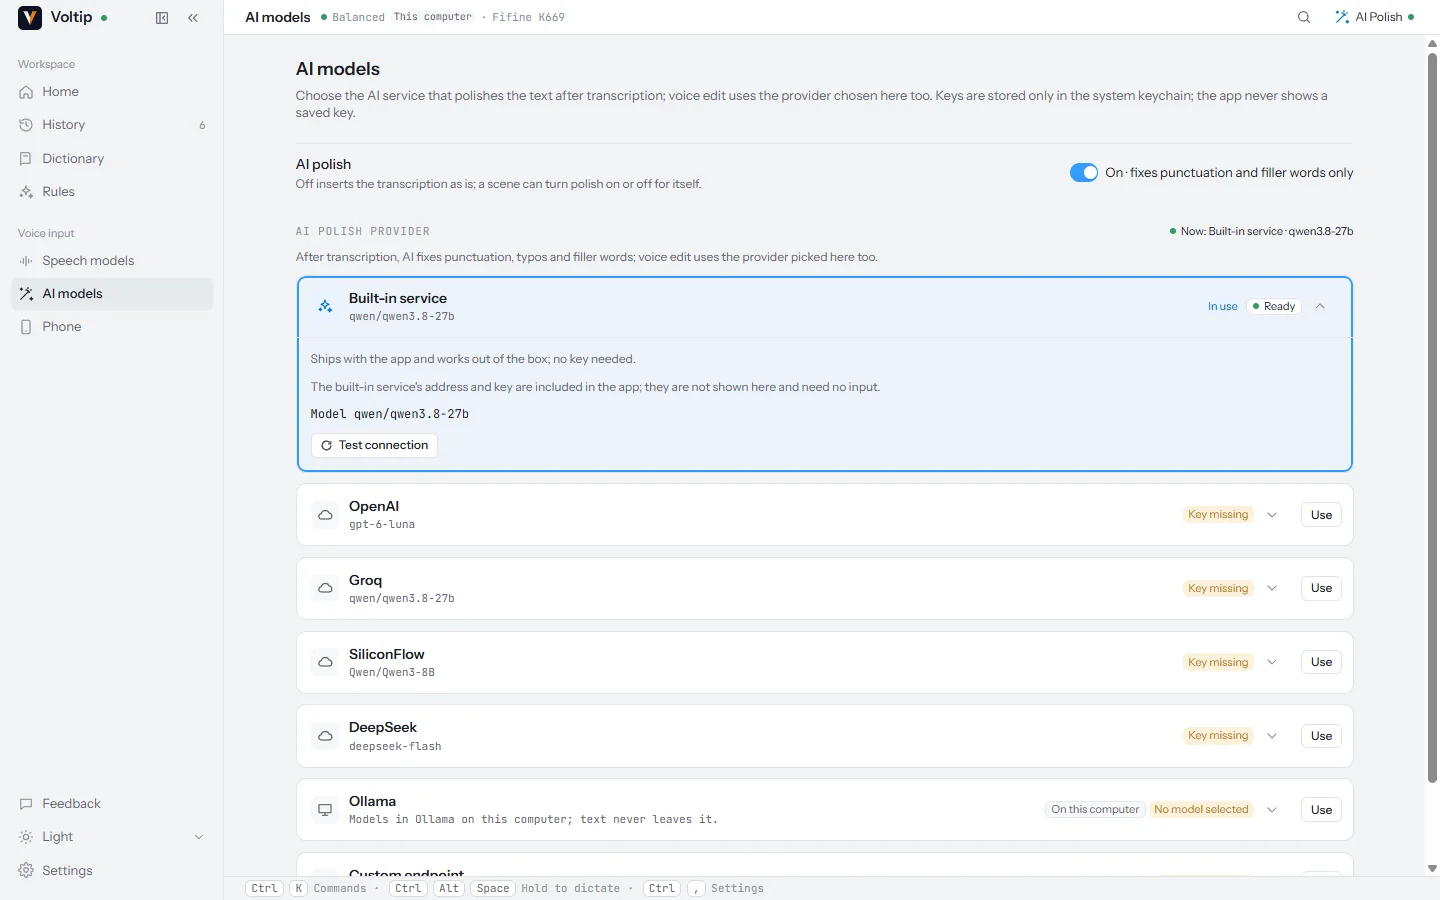
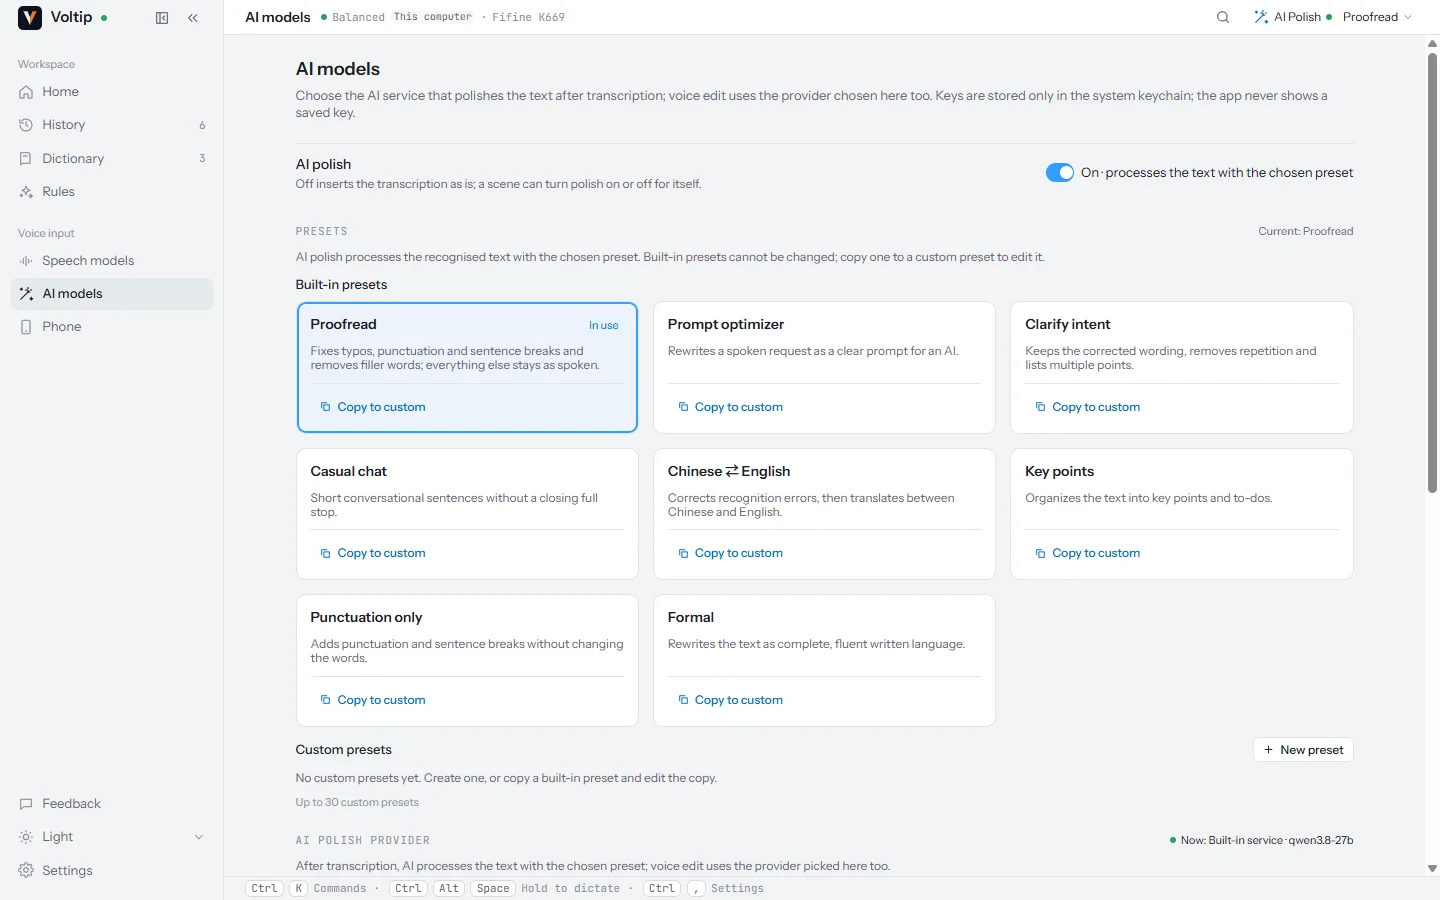
docs(site): retake the screenshots that show the preset menus
The title bar and the home page gained the AI preset menu, the AI models
page the presets, and the overlay names the preset while AI polish runs, so
every page capture and the processing pill are taken again from the mock
backend (docs/site/README.md: 1440 × 900 at DPR 1, WebP 85; the overlay at
DPR 2 through crop-overlay.py). The listening and inserted pills come out
pixel-identical and stay as they were.

- The pill sheet's processing sample names the default preset (校对 /
  Proofread) instead of 「AI 润色」, as the overlay does since §21; the
  sheet test checks it.
- The AI models figure moves into the Presets section with an alt text for
  what it now shows; the processing pill's alt text names the preset.

diff --git a/apps/desktop/src/pages/OverlaySheet.tsx b/apps/desktop/src/pages/OverlaySheet.tsx
@@ -76,6 +76,8 @@ export default function OverlaySheet({ state }: OverlaySheetProps) {
   const levels = fakeLevels(tick);
 
   const fallbackText = t("overlay.fallbackText");
+  // While AI polish runs the pill names the preset in use (docs/dictation.md §21), the default one here.
+  const refineTag = t("presets.proofread.name");
   const sampleLabels: Partial<Record<PillState, string>> = {
     processing: t("overlay.label.processing"),
     inserted: t("overlay.label.inserted"),
@@ -96,7 +98,7 @@ export default function OverlaySheet({ state }: OverlaySheetProps) {
           readout={READOUTS[single]}
           label={sampleLabels[single]}
           via={single === "inserted" ? "VS Code" : undefined}
-          mode={single === "processing" ? t("overlay.live.refineTag") : undefined}
+          mode={single === "processing" ? refineTag : undefined}
           onCopy={copyFallback}
         />
       </div>
@@ -126,7 +128,7 @@ export default function OverlaySheet({ state }: OverlaySheetProps) {
                 readout={READOUTS[s]}
                 label={sampleLabels[s]}
                 via={s === "inserted" ? "VS Code" : undefined}
-                mode={s === "processing" ? t("overlay.live.refineTag") : undefined}
+                mode={s === "processing" ? refineTag : undefined}
                 onCopy={copyFallback}
                 onStop={() => {
                   void backend.invoke("dictation_stop");

diff --git a/apps/desktop/src/pages/Overlay.test.tsx b/apps/desktop/src/pages/Overlay.test.tsx
@@ -58,6 +58,10 @@ describe("Overlay page", () => {
     expect(screen.getByText("预览").closest('[role="status"]')).toHaveClass("w-[420px]");
     // Bridge & MCP is being removed: nothing on the sheet names it.
     expect(page.textContent).not.toMatch(/Bridge|MCP/);
+    // The processing pill names the preset, as the overlay does while AI polish runs (§21).
+    const processing = page.querySelector<HTMLElement>('[data-state="processing"].rounded-pill');
+    expect(processing?.textContent).toContain("校对");
+    expect(processing?.textContent).not.toContain("AI 润色");
   });
 
   it("regression: the single-pill overlay window render is untouched by the sheet layout", async () => {

diff --git a/docs/site/recognition/polish.md b/docs/site/recognition/polish.md
@@ -14,10 +14,6 @@ AI polish uses the service chosen on the **AI models** page: the built-in servic
 
 If the service does not answer, the recognised text is inserted without polish, and the dictation is not lost.
 
-<ScreenFigure src="/screens/ai-en-light.webp" width="1440" height="900"
-  alt="The AI models page with AI polish on and the built-in service in use, followed by the other services."
-  caption="The AI models page." />
-
 ## Presets
 
 A preset tells AI polish what to do with the recognised text. Choose the one in use from the **AI preset** menu on the home page or in the title bar, from **AI Polish** in the tray menu, or under **Presets** on the **AI models** page. While AI polish runs, the overlay shows the name of the preset, and each history entry records it.
@@ -32,6 +28,10 @@ A preset tells AI polish what to do with the recognised text. Choose the one in 
 | **Key points** | Key points and to-dos as two lists, without adding facts |
 | **Punctuation only** | Adds punctuation and sentence breaks and changes no words |
 | **Formal** | Rewrites spoken phrasing into complete, formal written language |
+
+<ScreenFigure src="/screens/ai-en-light.webp" width="1440" height="900"
+  alt="The AI models page: AI polish is on, and below it the eight built-in presets with Proofread in use, then the custom presets."
+  caption="The presets on the AI models page." />
 
 ### Your own presets
 

diff --git a/docs/site/zh/recognition/polish.md b/docs/site/zh/recognition/polish.md
@@ -14,10 +14,6 @@ AI 润色使用「AI 模型」页中选择的服务：内置服务、OpenAI、Gr
 
 如果服务没有响应，Voltip 会插入未经润色的识别结果，这次听写不会丢失。
 
-<ScreenFigure src="/screens/ai-zh-light.webp" width="1440" height="900"
-  alt="「AI 模型」页：AI 润色已开启，正在使用内置服务，下方是其他服务。"
-  caption="「AI 模型」页。" />
-
 ## 预设
 
 预设决定 AI 润色如何处理识别出的文字。可以在首页或标题栏的「AI 预设」菜单、托盘菜单的「AI 润色」中选择当前使用的预设，也可以在「AI 模型」页的「预设」中选择。润色进行时，悬浮窗显示预设的名称，每条历史记录也会记下所用的预设。
@@ -32,6 +28,10 @@ AI 润色使用「AI 模型」页中选择的服务：内置服务、OpenAI、Gr
 | **要点纪要** | 整理成「要点」和「待办」两组列表，不添加事实 |
 | **只加标点** | 只补充标点和断句，不改动文字 |
 | **书面语** | 把口语化的说法改写为完整、规范的书面语 |
+
+<ScreenFigure src="/screens/ai-zh-light.webp" width="1440" height="900"
+  alt="「AI 模型」页：AI 润色已开启，下方是 8 个内置预设，正在使用「校对」，再往下是自定义预设。"
+  caption="「AI 模型」页中的预设。" />
 
 ### 自定义预设
 

diff --git a/docs/site/index.md b/docs/site/index.md
@@ -43,7 +43,7 @@ home:
         dark: /screens/overlay-processing-en-dark.webp
         width: 784
         height: 70
-        alt: The overlay during AI polish, showing the time the step has taken.
+        alt: The overlay during AI polish, showing the preset in use and the time the step has taken.
       - light: /screens/overlay-inserted-en-light.webp
         dark: /screens/overlay-inserted-en-dark.webp
         width: 784

diff --git a/docs/site/zh/index.md b/docs/site/zh/index.md
@@ -43,7 +43,7 @@ home:
         dark: /screens/overlay-processing-zh-dark.webp
         width: 784
         height: 70
-        alt: AI 润色时的悬浮窗：显示这一步已用的时间。
+        alt: AI 润色时的悬浮窗：显示所用的预设和这一步已用的时间。
       - light: /screens/overlay-inserted-zh-light.webp
         dark: /screens/overlay-inserted-zh-dark.webp
         width: 784
